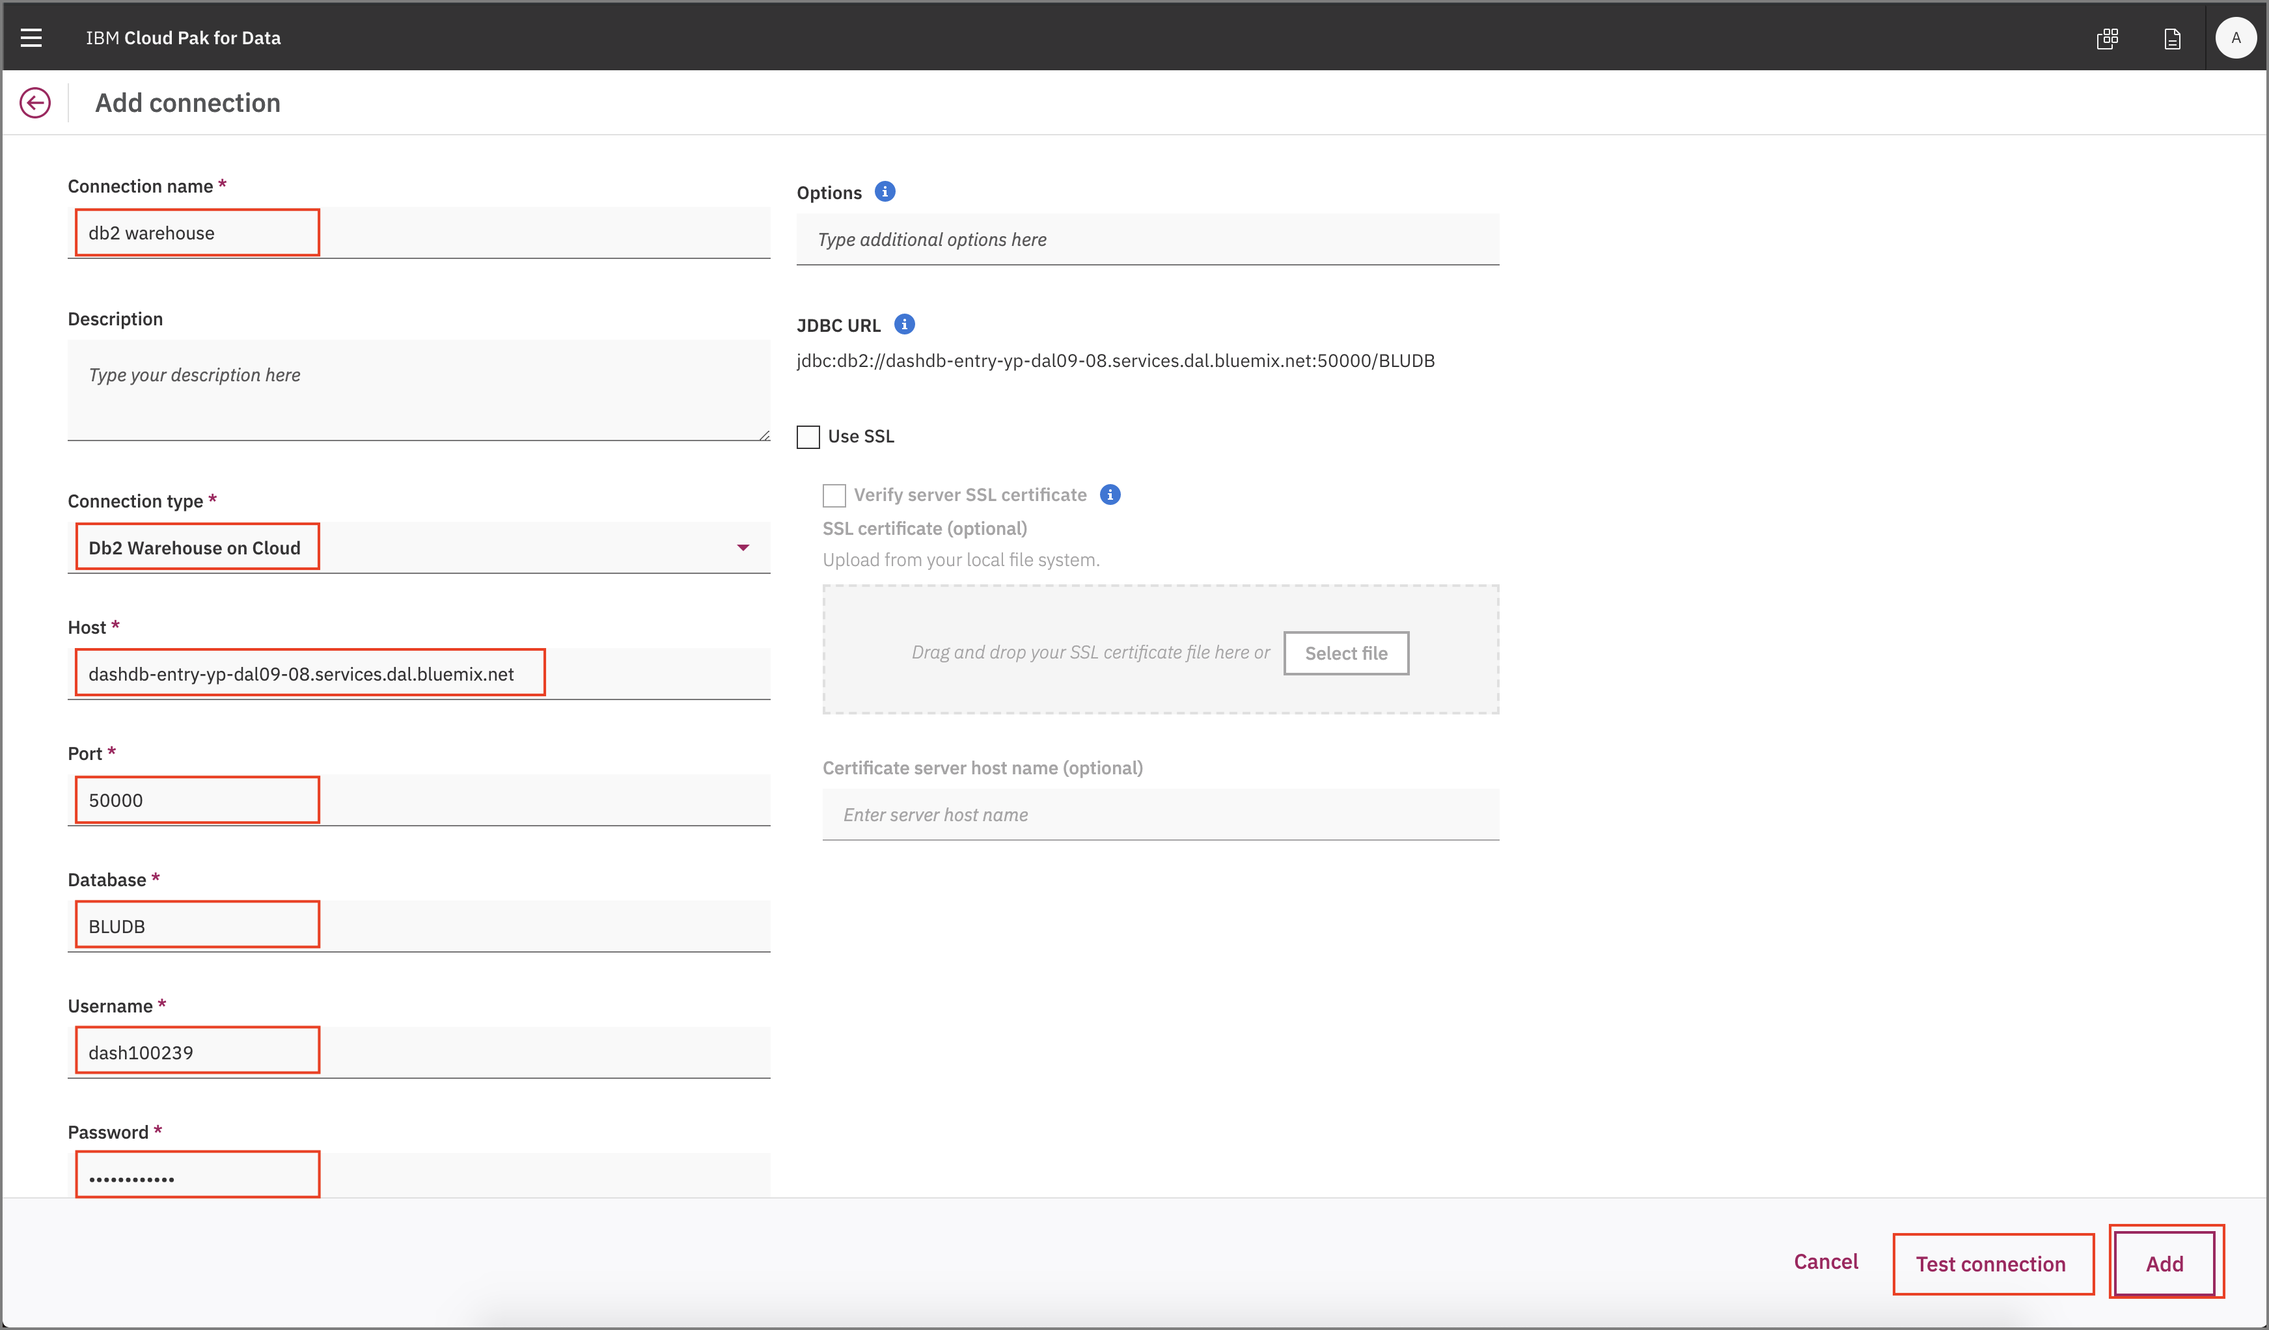
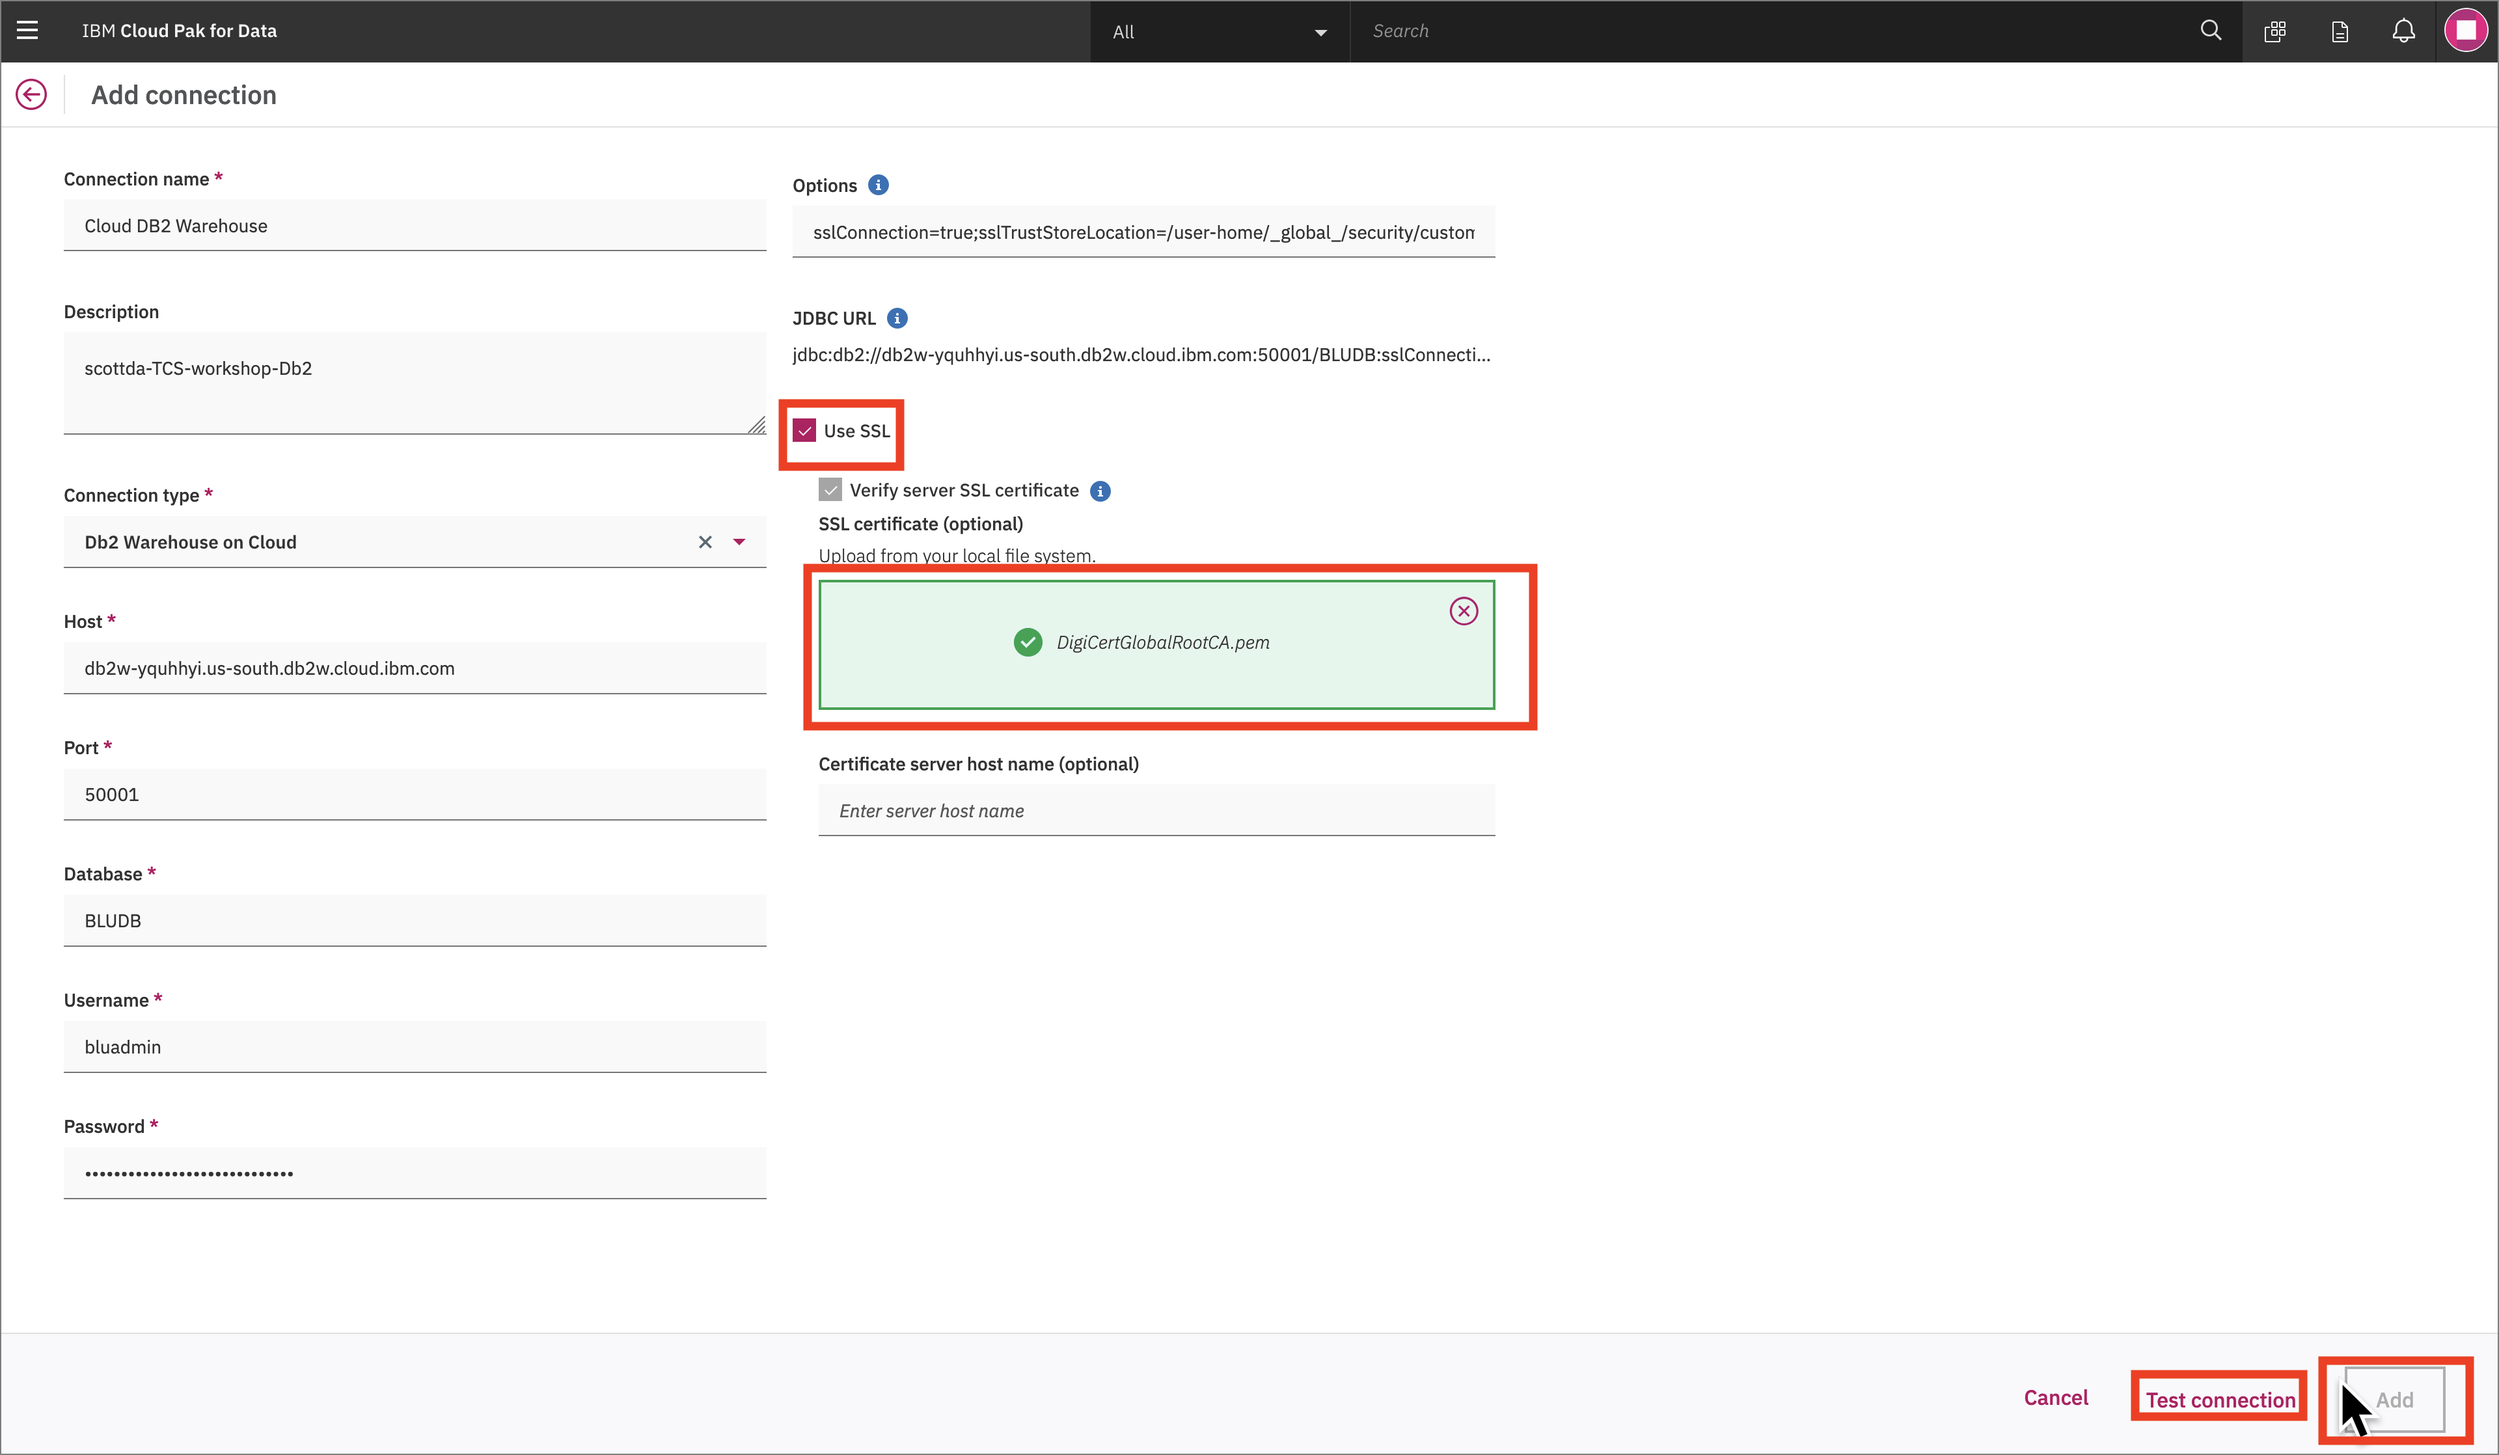
Add instructions for admin to download SSL cert for DB.
If using the IBM Cloud DB2 Warehouse, you will need an SSL cert.
Add instructions in admin-guide for the process.

diff --git a/workshop/admin-guide/README.md b/workshop/admin-guide/README.md
@@ -45,6 +45,20 @@ Choose `Browse file` and navigate to where you cloned this repository, then to `
 Choose Schema `NULLIDRA` and click `+ New table`. Under "New Table Name" type "BILLING" and click `Create`, then `Next`. Accept the defaults and click `Next`. Click `Begin Load`.
 Repeat for the `products.csv` file, naming the table `PRODUCTS` and the `customer-service.csv` file, naming the table `CUSTOMERS`.
 
+### Get IBM Cloud DB2 SSL cert
+
+You will need an SSL cert for Cloud Pak for Data to use the IBM Cloud DB2 Warehouse instance.
+
+In the DB2 Warehouse console, rom the upper-left (☰) hamburger menu click `Connection Info` -> `Connection Information`. Then click `Download SSL Certificate`:
+
+![DB2 get SSL certificate](../.gitbook/assets/images/dv/dv-db2-cloud-get-ssl-cert.png)
+
+You'll need to convert the SSL certificate from `.crt` to a `.pem` file using [openssl](https://www.openssl.org/). Run the following command:
+
+```bash
+openssl x509 -in DigiCertGlobalRootCA.crt -out DigiCertGlobalRootCA.pem -outform PEM -inform DER
+```
+
 ### Add DB Connections & Virtualization prep
 
 For Cloud Pak for Data to read our Db2 Warehouse data we need to add a new *Data Source* to Cloud Pak for Data. This requires inputting the usual JDBC details.
@@ -77,7 +91,11 @@ At the overview, click *Add connection*.
 
 ![Overview page](../.gitbook/assets/images/connections/conn-overview-empty.png)
 
-Start by giving your new *Connection* a name and select *Db2 Warehouse on Cloud* as your connection type. More fields should apper. Fill the new fields with the same credentials for your own Db2 Warehouse connection from the previous section . Click `Test Connection` and, after that succeeds, click `Add`.
+Start by giving your new *Connection* a name and select *Db2 Warehouse on Cloud* as your connection type. More fields should apper. Fill the new fields with the same credentials for your own Db2 Warehouse connection from the previous section .
+
+Click the check box for `Use SSL`. Next click `Select file` and navigate to where you converted the SSL certificate for DB2 Warehouse form a `.crt` file to a `.pem` file (probably called DigiCertGlobalRootCA.pem).
+
+Click `Test Connection` and, after that succeeds, click `Add`.
 
 ![Add a Db2 Warehouse on Cloud connection](../.gitbook/assets/images/connections/conn-details.png)
 
